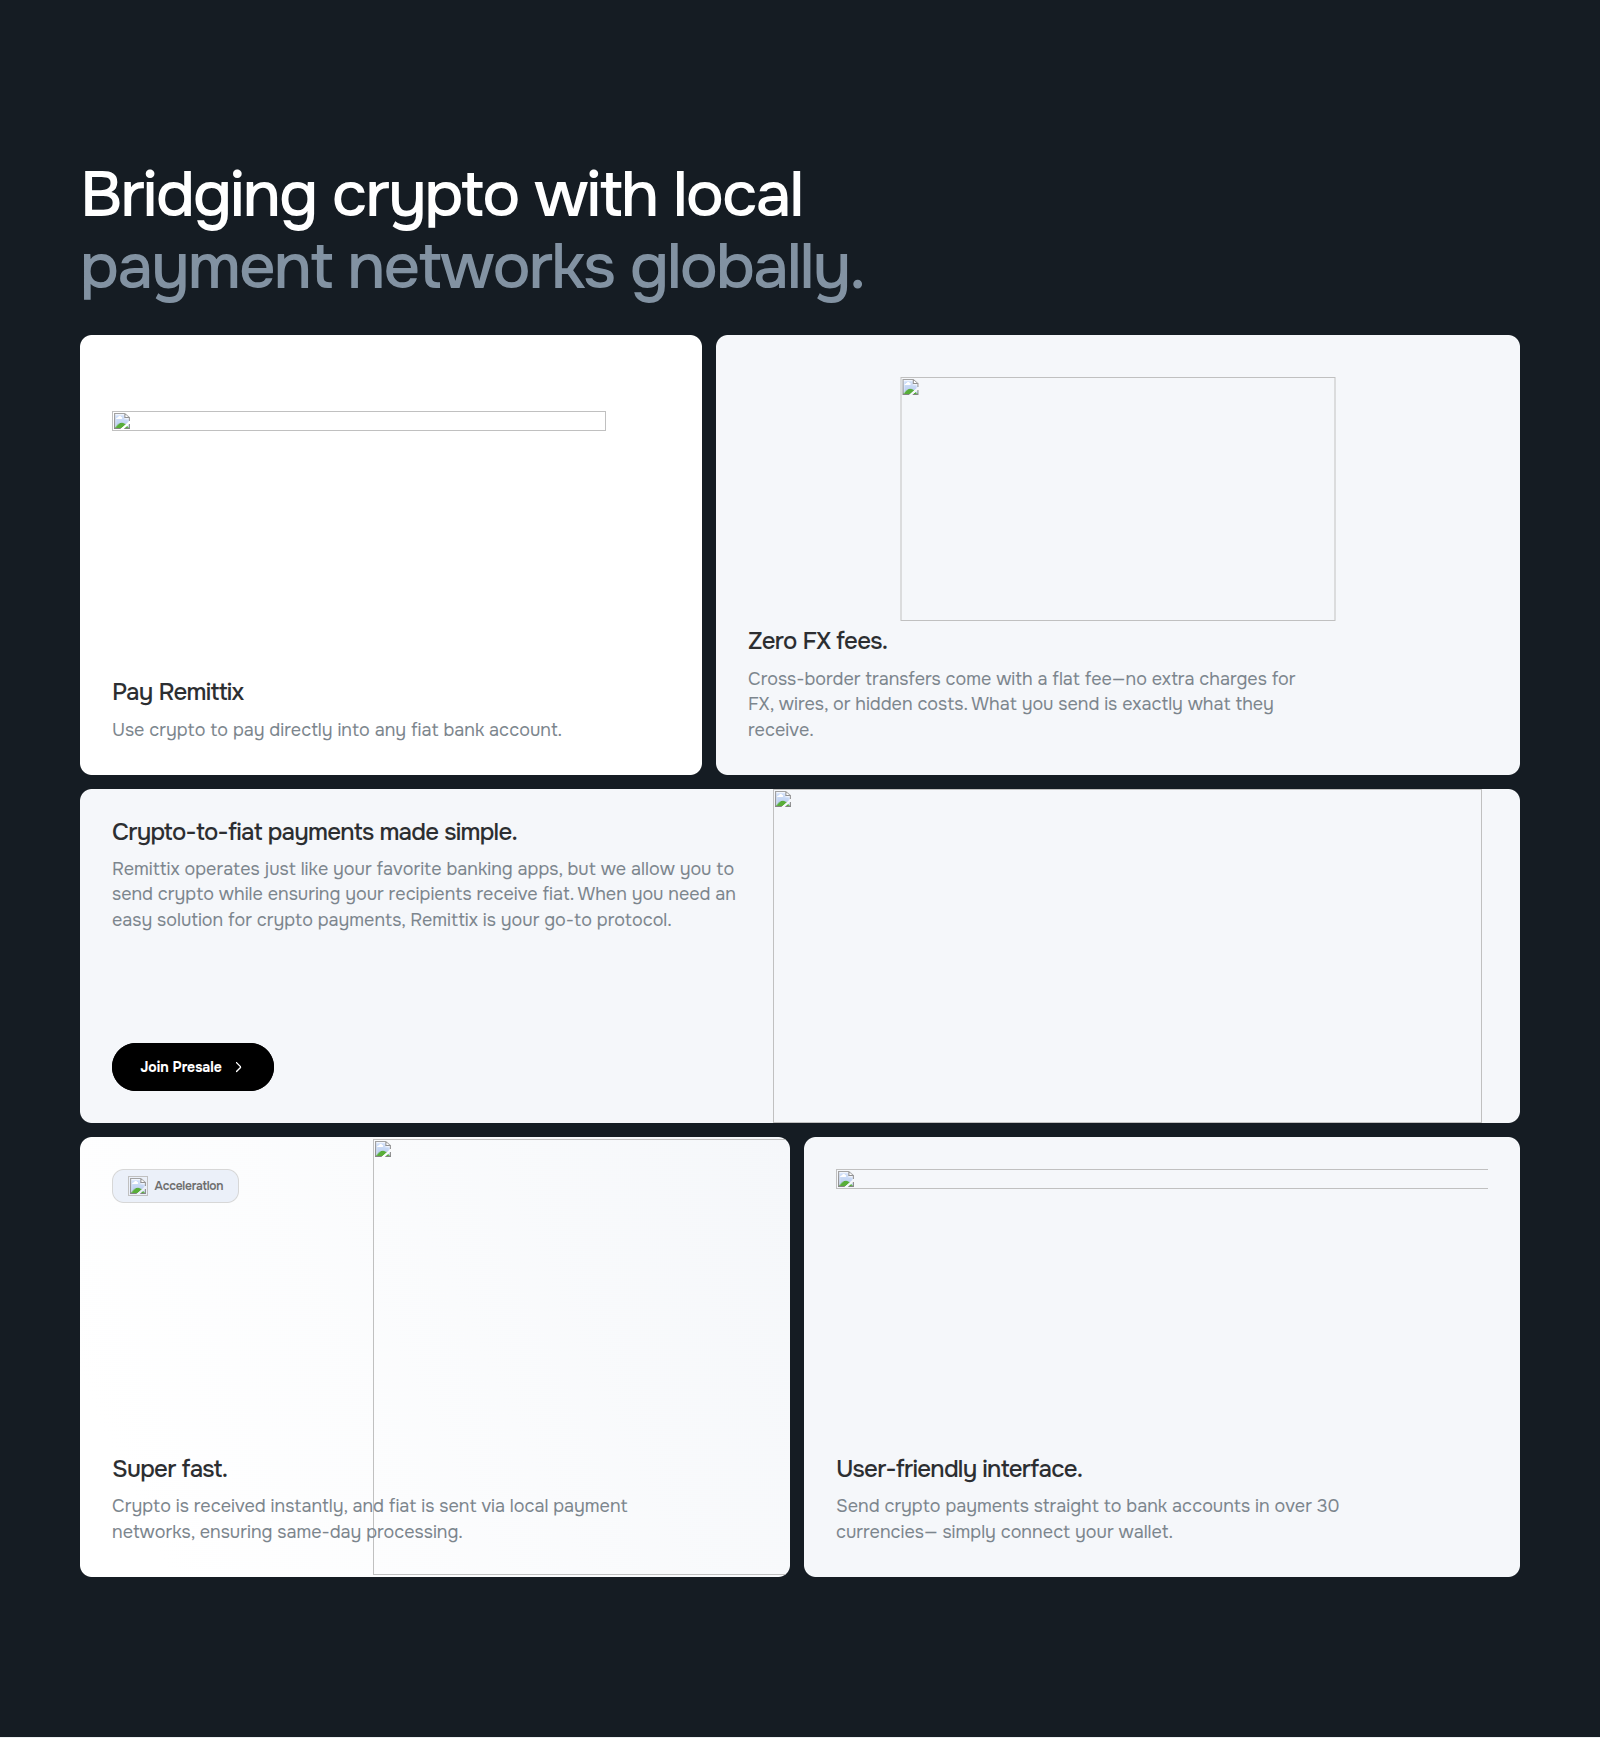
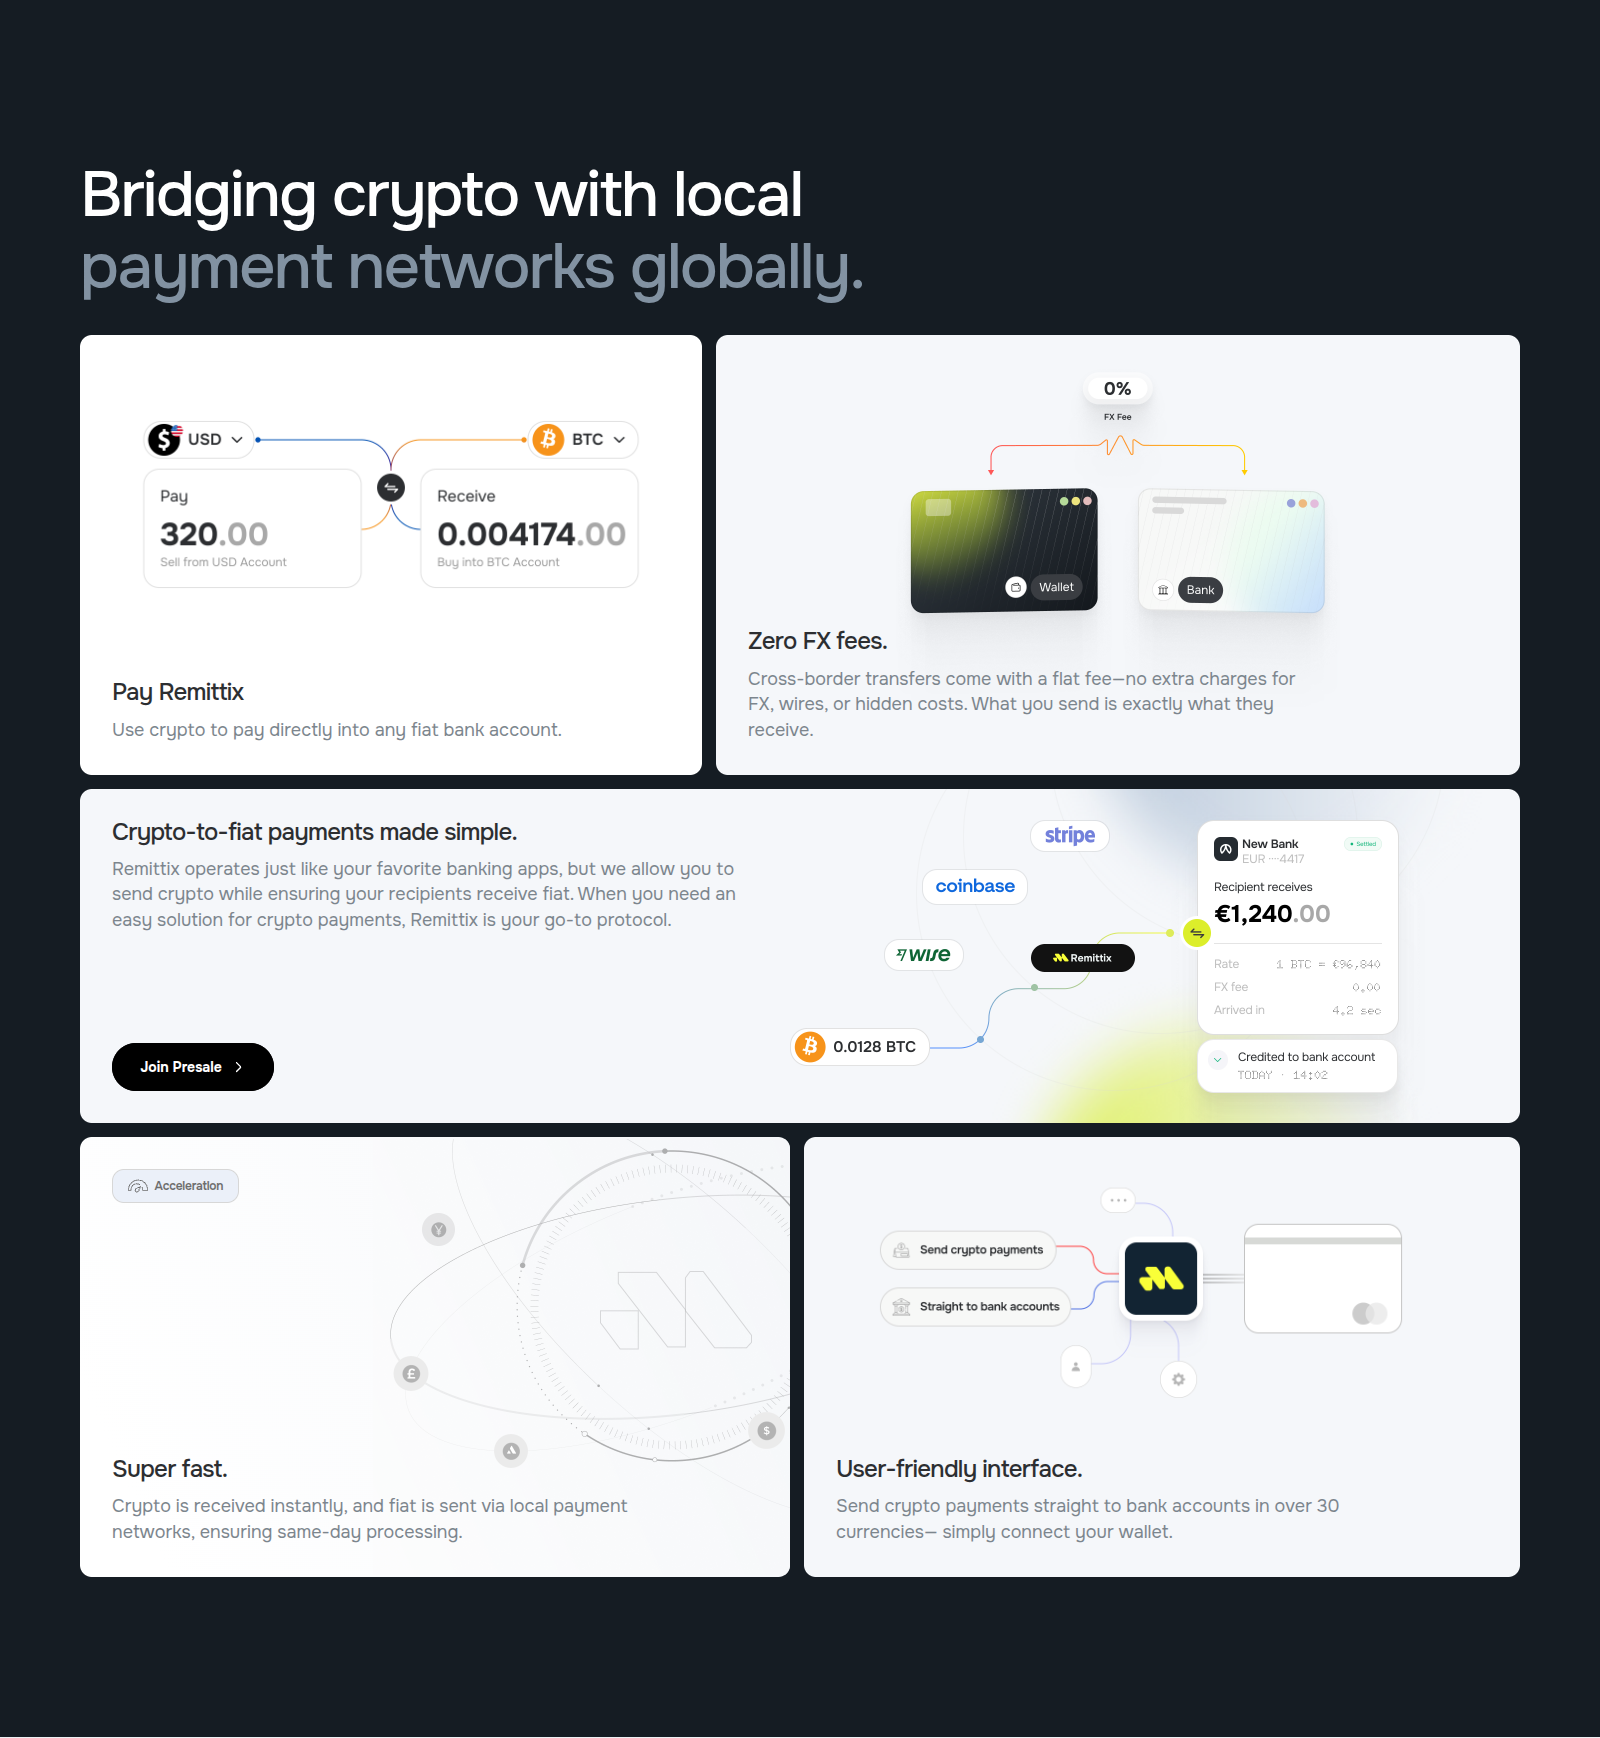
Add the feature band artwork exports from Figma
Download the six card illustrations for the feature band (node 2343:116)
from the "Remittix Redesign" Figma file: five PNGs at 2x and the
Acceleration chip icon as SVG, saved under public/figma/features.

Figma's export of the Zero FX group (2354:693) includes the cards' soft
drop shadow, so the file is 480x361 rather than the node's 435x244.
Show it at its natural size, shifted up by the 10px top bleed, so the
node box still lands 42px from the top and the cards keep their
proportions; the previous fixed 435x244 box squashed them. Update the
intrinsic size hint and the README row to match.

Refresh the review screenshots at 1600 and 390 wide; every image loads
and the artwork sits inside its card at both widths.

Claude-Session: https://claude.ai/code/session_01Ybw2gkyVY5fo8zwFNJn3XJ

diff --git a/src/components/FigmaFeatures/FigmaFeatures.css b/src/components/FigmaFeatures/FigmaFeatures.css
@@ -117,12 +117,14 @@
   height: auto;
 }
 
-/* Zero FX fees: art 435×244 centred, 42px from the top. */
+/* Zero FX fees: the 435×244 art centred, 42px from the top. Figma's export carries the cards'
+   soft shadow, so the file is 480×361 with the node box 22px in from each side and 10px down;
+   the image is shown at its natural size and shifted up by that bleed. */
 .ff__art--fx {
   left: 50%;
-  top: 42px;
-  width: 435px;
-  height: 244px;
+  top: 32px;
+  width: 480px;
+  height: 361px;
   transform: translateX(-50%);
 }
 
@@ -221,7 +223,8 @@
     width: 52%;
   }
   .ff__art--fx {
-    width: 380px;
+    top: 33px;
+    width: 419px; /* node box 380px wide */
     height: auto;
   }
   .ff__art--fast {

diff --git a/src/components/FigmaFeatures/FigmaFeatures.tsx b/src/components/FigmaFeatures/FigmaFeatures.tsx
@@ -10,7 +10,7 @@ import './FigmaFeatures.css';
 
 const ART = {
   pay: { src: '/figma/features/pay-remittix.png', width: 562, height: 188 },
-  fx: { src: '/figma/features/zero-fx.png', width: 435, height: 244 },
+  fx: { src: '/figma/features/zero-fx.png', width: 480, height: 361 },
   simple: { src: '/figma/features/made-simple.png', width: 709, height: 334 },
   fast: { src: '/figma/features/super-fast.png', width: 500, height: 436 },
   ui: { src: '/figma/features/interface.png', width: 668, height: 234 },

diff --git a/public/figma/features/README.md b/public/figma/features/README.md
@@ -7,7 +7,7 @@ Each file is the card's illustration group exported as PNG at 2x; the `<img>` in
 | File               | Figma node  | Box (1x)  | Card                              |
 | ------------------ | ----------- | --------- | --------------------------------- |
 | pay-remittix.png   | `2361:2281` | 562 × 188 | Pay Remittix                      |
-| zero-fx.png        | `2354:693`  | 435 × 244 | Zero FX fees.                     |
+| zero-fx.png        | `2354:693`  | 480 × 361 | Zero FX fees. (node is 435 × 244; the export adds the cards' shadow bleed, 22px each side and 10px above, see the CSS) |
 | made-simple.png    | `2348:1733` | 709 × 334 | Crypto-to-fiat payments made simple. |
 | super-fast.png     | `2361:2199` | 500 × 436 | Super fast.                       |
 | interface.png      | `2360:1807` | 668 × 234 | User-friendly interface.          |
